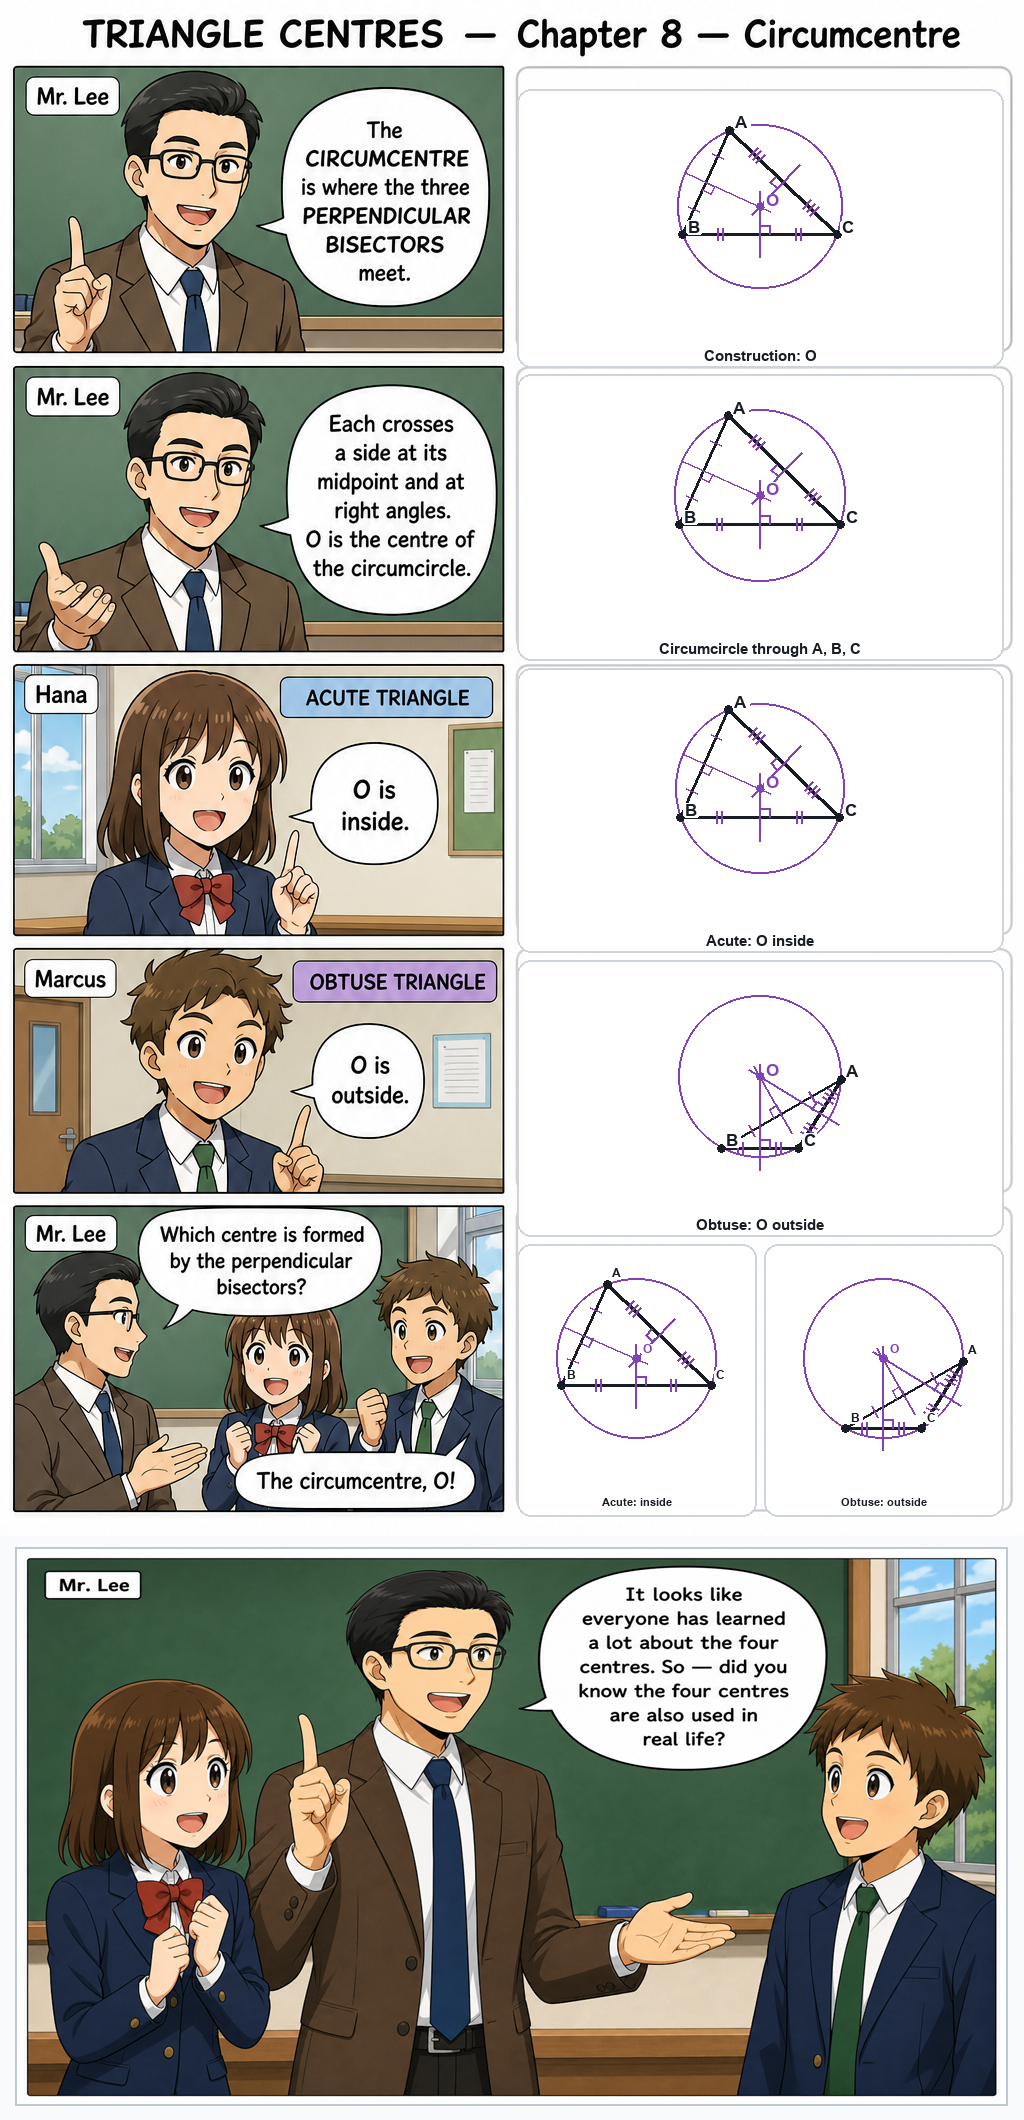
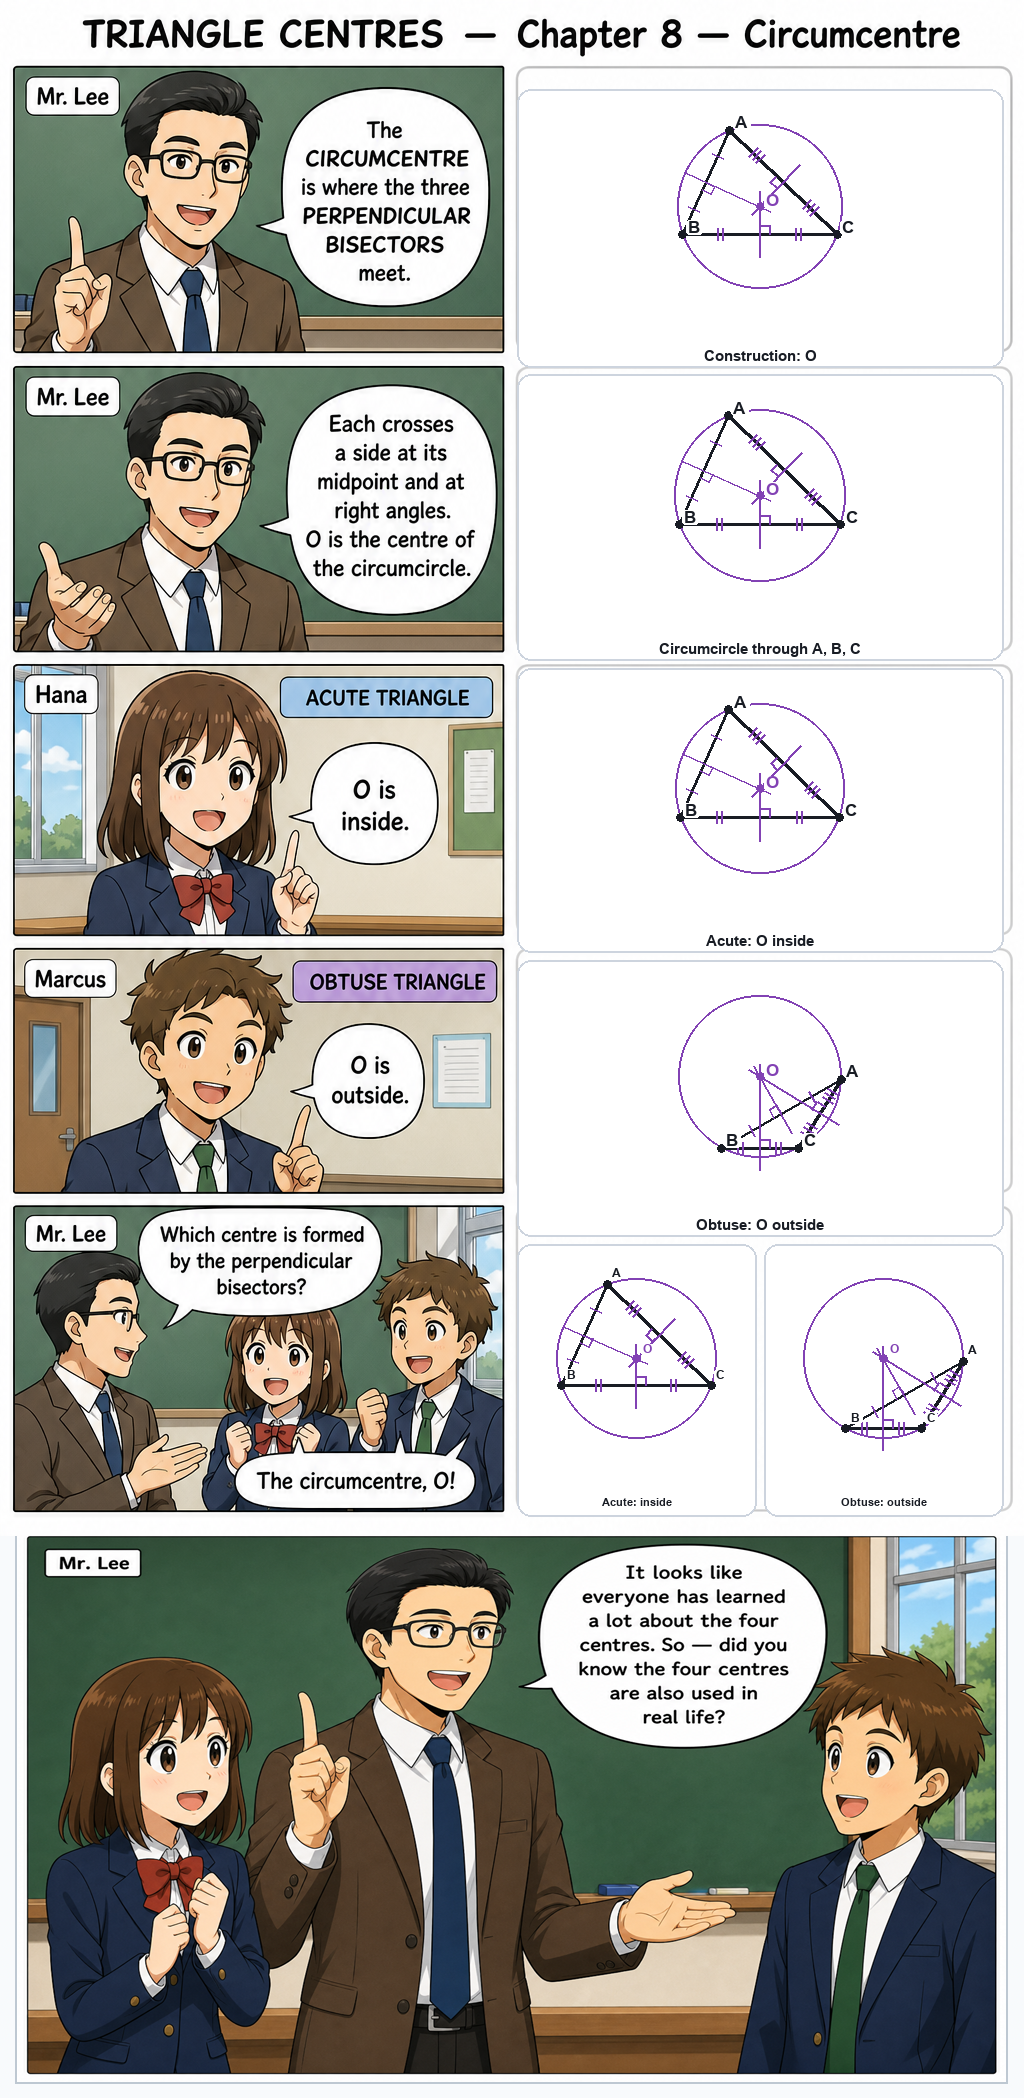
Restore JM28 ch8 last-row right as original Acute/Obtuse two diagrams.

diff --git a/topics/triangle_centres/comics-manifest.js b/topics/triangle_centres/comics-manifest.js
@@ -44,7 +44,7 @@ window.JM28_COMICS = {
       {
         id: "ch8",
         title: "Chapter 8 — Circumcentre",
-        file: "triangle-centres-chapter-8-circumcentre-color.png?v=20260906-ch8panel",
+        file: "triangle-centres-chapter-8-circumcentre-color.png?v=20260906-twocells",
       },
       {
         id: "quest1",
